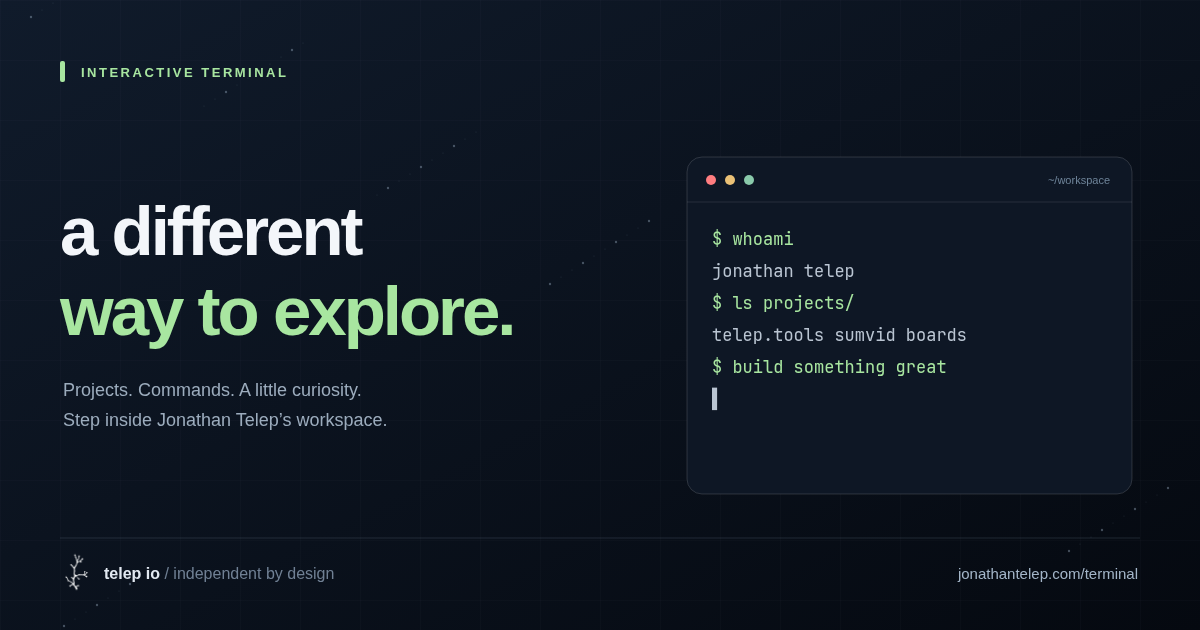
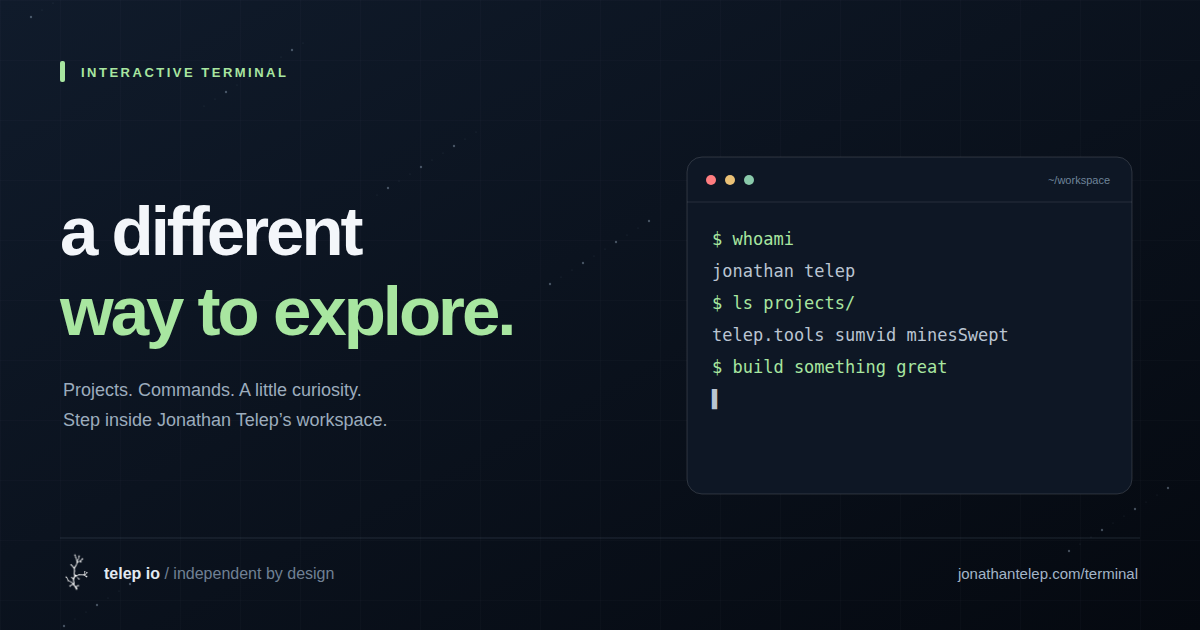
Replace Boards with minesSwept (#7)
* Replace the Boards project with live minesSwept.

Boards was the only coming-soon entry. minesSwept is now a featured project with its live site and source.

* Fix minesSwept spelling, link labels, and stamp.

Use minesSwept in the products copy, mines-swept on the plate, and minesswept.md in the terminal. Label the card links and mark the card shipped.

---------

diff --git a/index.html b/index.html
@@ -26,7 +26,7 @@
     <meta name="twitter:image" content="https://jonathantelep.com/public/social/home-v1.png">
     <meta name="twitter:image:alt" content="JONATHAN TELEP / SOFTWARE ENGINEER: the universe is possible.">
     <!-- social-preview:end -->
-    <meta name="keywords" content="Jonathan Telep, software engineer, Cleveland, Ohio, Telep IO, BarkMarks, sumvid, telep.tools, boards, web developer, API developer">
+    <meta name="keywords" content="Jonathan Telep, software engineer, Cleveland, Ohio, Telep IO, BarkMarks, sumvid, telep.tools, minesSwept, web developer, API developer">
     <meta name="author" content="Jonathan Telep">
     <link rel="describedby" href="https://jonathantelep.com/llms.txt" type="text/plain">
     <link rel="alternate" type="text/markdown" href="https://jonathantelep.com/about.md" title="Plain-text profile">
@@ -44,7 +44,7 @@
           "name": "Jonathan Telep",
           "alternateName": ["Jon Telep", "jon telep"],
           "jobTitle": "Senior Software Engineer",
-          "description": "Senior Software Engineer at Red Hat in Cleveland, Ohio. Founder of Telep IO, a solo side studio. Builds and ships independent products including BarkMarks, sumvid, telep.tools, boards, Easy Data Quality, seploy, omusey, and agent skills.",
+          "description": "Senior Software Engineer at Red Hat in Cleveland, Ohio. Founder of Telep IO, a solo side studio. Builds and ships independent products including minesSwept, BarkMarks, sumvid, telep.tools, Easy Data Quality, seploy, omusey, and agent skills.",
           "url": "https://jonathantelep.com",
           "image": "https://jonathantelep.com/public/jon.png",
           "worksFor": { "@id": "https://www.redhat.com/#organization" },
@@ -56,7 +56,8 @@
             "https://telep.io",
             "https://bark.telep.io",
             "https://sumvid.app",
-            "https://telep.tools"
+            "https://telep.tools",
+            "https://minesswept.com"
           ],
           "knowsAbout": [
             "Master Data Management",
@@ -67,7 +68,7 @@
             "API Development",
             "AI/ML",
             "Video Summarization",
-            "Image-to-Video Generation",
+            "Real-time Multiplayer",
             "Developer Tools",
             "PostgreSQL",
             "JSON",
@@ -125,7 +126,7 @@
     <link rel="preconnect" href="https://fonts.googleapis.com">
     <link rel="preconnect" href="https://fonts.gstatic.com" crossorigin>
     <link href="https://fonts.googleapis.com/css2?family=Kanit:wght@300;400;500;600;700&family=JetBrains+Mono:wght@400;500;700&display=swap" rel="stylesheet">
-    <link rel="stylesheet" href="landing.css?v=6">
+    <link rel="stylesheet" href="landing.css?v=7">
     <script src="https://cdn.jsdelivr.net/npm/marked/marked.min.js"></script>
 </head>
 <body>
@@ -264,7 +265,7 @@
                         <span></span><span></span><span></span><span></span><span></span><span></span>
                     </div>
                     <h3>products</h3>
-                    <p>small apps with one job. barkmarks tells you when the dog will bark at the movie. sumvid summarizes videos. boards turns generated images into generated video. telep.tools is where they'll all live.</p>
+                    <p>small apps with one job. minesSwept is one minesweeper board everyone digs together. barkmarks tells you when the dog will bark at the movie. sumvid summarizes videos. telep.tools is where they'll all live.</p>
                     <a href="#projects" class="more">see projects →</a>
                 </article>
                 <article class="build-card">
@@ -293,13 +294,30 @@
             <p class="sec-sub">newest first. green is live, amber is being built.</p>
 
             <div class="cards">
+                <article class="card">
+                    <div class="card-art art-mine" aria-hidden="true">
+                        <div class="grid">
+                            <i></i><i class="on"></i><i></i><i class="flag"></i><i></i><i></i>
+                            <i class="on"></i><i class="on"></i><i class="on"></i><i></i><i></i><i class="on"></i>
+                            <i></i><i class="on"></i><i class="mine"></i><i class="on"></i><i></i><i></i>
+                            <i></i><i></i><i class="on"></i><i class="on"></i><i></i><i class="flag"></i>
+                        </div>
+                        <span class="stamp shipped">shipped</span>
+                    </div>
+                    <p class="plate">plate 01 — mines-swept — 2026</p>
+                    <h3>minesSwept</h3>
+                    <p>One minesweeper board. A million cells. Everyone digs together, live. One mine ends it for everyone.</p>
+                    <div class="tags"><span>cloudflare workers</span><span>durable objects</span><span>websockets</span></div>
+                    <span class="open"><a href="https://minesswept.com" target="_blank" rel="noopener" aria-label="Play minesSwept">open ↗</a><a href="https://github.com/JonTelep/mines-swept" target="_blank" rel="noopener" aria-label="minesSwept source on GitHub">source ↗</a></span>
+                </article>
+
                 <a class="card" href="https://bark.telep.io" target="_blank" rel="noopener">
                     <div class="card-art art-bark" aria-hidden="true">
                         <div class="meter"><i></i><i></i><i></i><i></i><i></i></div>
                         <div class="track"><b></b><b></b><b></b><b></b></div>
                         <span class="stamp shipped">shipped</span>
                     </div>
-                    <p class="plate">plate 01 — barkmarks — 2026 — latest</p>
+                    <p class="plate">plate 02 — barkmarks — 2026 — latest</p>
                     <h3>barkmarks</h3>
                     <p>know when the dog will bark. search a movie or show, get a bark grade and timestamps for the doorbells, howls, and squeaky toys on screen — so you can mute before the dog ruins the night.</p>
                     <div class="tags"><span>movies</span><span>dogs</span><span>search</span></div>
@@ -312,7 +330,7 @@
                         <div class="lines"><i></i><i></i><i></i></div>
                         <span class="stamp shipped">shipped</span>
                     </div>
-                    <p class="plate">plate 02 — sumvid-app — 2026</p>
+                    <p class="plate">plate 03 — sumvid-app — 2026</p>
                     <h3>sumvid</h3>
                     <p>a summarization of videos. paste a link, get the point.</p>
                     <div class="tags"><span>ai</span><span>video</span><span>summarization</span></div>
@@ -324,24 +342,11 @@
                         <div class="tiles"><i></i><i></i><i></i><i></i><i></i><i></i><i></i><i></i><i></i><i></i><i></i><i></i></div>
                         <span class="stamp building">building</span>
                     </div>
-                    <p class="plate">plate 03 — telep-tools — 2026 — in progress</p>
+                    <p class="plate">plate 04 — telep-tools — 2026 — in progress</p>
                     <h3>telep.tools</h3>
                     <p>one home for every tool i make. nothing deployed yet. this is what i'm building toward right now.</p>
                     <div class="tags"><span>platform</span><span>tools</span><span>saas</span></div>
                     <span class="open">follow along ↗</span>
-                </a>
-
-                <a class="card" href="https://telep.io/contact" target="_blank" rel="noopener">
-                    <div class="card-art art-boards" aria-hidden="true">
-                        <div class="frames"><i></i><i></i><i></i><i></i></div>
-                        <div class="play"></div>
-                        <span class="stamp building">building</span>
-                    </div>
-                    <p class="plate">plate 04 — boards — 2026 — in progress</p>
-                    <h3>boards</h3>
-                    <p>image generation to video generation. lay out the frames on a board, then let it move.</p>
-                    <div class="tags"><span>ai</span><span>image</span><span>video</span></div>
-                    <span class="open">ask about it ↗</span>
                 </a>
 
                 <a class="card" href="https://easydataquality.com" target="_blank" rel="noopener">
@@ -433,6 +438,9 @@
             <div class="sys-groups">
                 <div class="sys-group">
                     <div class="sys-head"><span>products</span><span id="cnt-products">00</span></div>
+                    <a class="sys" href="https://minesswept.com" target="_blank" rel="noopener" data-group="products">
+                        <span class="sys-led"></span><span class="sys-name">minesSwept</span><span class="sys-url">minesswept.com</span><span class="sys-desc">one minesweeper board. a million cells. everyone digs together.</span>
+                    </a>
                     <a class="sys" href="https://bark.telep.io" target="_blank" rel="noopener" data-group="products">
                         <span class="sys-led"></span><span class="sys-name">barkmarks</span><span class="sys-url">bark.telep.io</span><span class="sys-desc">bark grades + timestamps for movies and tv. latest live app.</span>
                     </a>
@@ -441,9 +449,6 @@
                     </a>
                     <a class="sys" href="https://telep.tools" target="_blank" rel="noopener" data-group="products" data-state="building">
                         <span class="sys-led"></span><span class="sys-name">telep.tools</span><span class="sys-url">telep.tools</span><span class="sys-desc">home for all the tools. building.</span>
-                    </a>
-                    <a class="sys" href="https://telep.io/contact" target="_blank" rel="noopener" data-group="products" data-state="building">
-                        <span class="sys-led"></span><span class="sys-name">boards</span><span class="sys-url">soon</span><span class="sys-desc">image generation → video generation. building.</span>
                     </a>
                     <a class="sys" href="https://easydataquality.com" target="_blank" rel="noopener" data-group="products">
                         <span class="sys-led"></span><span class="sys-name">easy data quality</span><span class="sys-url">easydataquality.com</span><span class="sys-desc">data quality checks made easy</span>

diff --git a/js/modules/filesystem.js b/js/modules/filesystem.js
@@ -12,7 +12,7 @@ export const filesystem = {
 
 I am a software engineer in Cleveland, Ohio who likes to build things that I needed or always wanted, and I created this site to share my projects and thoughts. Much of my random personal projects will be public on [github](https://github.com/JonTelep).
 
-Slowly but surely I am building [Telep IO LLC](https://telep.io/), a software company building SaaS solutions for a better future. The latest live app is [sumvid](https://sumvid.app), a summarization of videos. Right now I am building toward [telep.tools](https://telep.tools), one home for every tool I make, and **boards**, an image generation to video generation tool. Follow me on [Twitter/X](https://x.com/telep_io) to keep informed.
+Slowly but surely I am building [Telep IO LLC](https://telep.io/), a software company building SaaS solutions for a better future. The latest live app is [sumvid](https://sumvid.app), a summarization of videos. [minesSwept](https://minesswept.com) is one minesweeper board everyone digs together, live ([source](https://github.com/JonTelep/mines-swept)). Right now I am building toward [telep.tools](https://telep.tools), one home for every tool I make. Follow me on [Twitter/X](https://x.com/telep_io) to keep informed.
 
 If you are looking to work together on any project that is exciting, reach me at [/request](https://jonathantelep.com/request), [telep.io/contact](https://telep.io/contact), or via a DM on [X](https://x.com/telep_io). I am always looking to get involved in interesting projects.
 
@@ -22,6 +22,7 @@ If you are looking to work together on any project that is exciting, reach me at
 - [Github](https://github.com/JonTelep) 
 
 ## Current Projects:
+- [minesSwept](https://minesswept.com) ([source](https://github.com/JonTelep/mines-swept)); One minesweeper board. A million cells. Everyone digs together, live. One mine ends it for everyone.
 - The website you are reading this on ([jonathantelep.com](https://jonathantelep.com))
 - [Visualize Postgres](/postgres/); A PostgreSQL CREATE SQL to ER Diagram web application.
 - [JSONIFY](/jsonify/); A JSON parser that can parse JSON files and return the data in a readable format.
@@ -31,6 +32,21 @@ If you are looking to work together on any project that is exciting, reach me at
             'projects': {
                 type: 'directory',
                 contents: {
+                    'minesswept.md': {
+                        type: 'file',
+                        url: 'https://minesswept.com',
+                        github: 'https://github.com/JonTelep/mines-swept',
+                        content: `# minesSwept
+
+One minesweeper board. A million cells. Everyone digs together, live. One mine ends it for everyone.
+
+Built with Cloudflare Workers and Durable Objects, with real-time multiplayer over WebSockets.
+
+## Links
+
+- Live: [minesswept.com](https://minesswept.com)
+- Source: [github.com/JonTelep/mines-swept](https://github.com/JonTelep/mines-swept)`
+                    },
                     'visualize-postgres.md': {
                         type: 'file',
                         url: '/postgres/',

diff --git a/landing.css b/landing.css
@@ -384,6 +384,8 @@ body::before {
 .tags { display: flex; flex-wrap: wrap; gap: 6px; margin-top: 14px; font-size: 10.5px; }
 .tags span { padding: 3px 8px; border-radius: 4px; background: rgba(199, 211, 220, 0.06); color: var(--dim); }
 .open { margin-top: 14px; font-size: 12px; color: var(--cyan); text-decoration: underline; text-underline-offset: 3px; }
+.open a { color: inherit; text-decoration: underline; text-underline-offset: 3px; margin-right: 16px; }
+.open:has(a) { text-decoration: none; }
 
 /* card art animations */
 .art-sumvid .film { position: absolute; left: 0; right: 0; top: 24px; display: flex; gap: 8px; padding: 0 12px; animation: slide 6s linear infinite; width: 200%; }
@@ -400,11 +402,11 @@ body::before {
 .art-tools .tiles i:nth-child(3n) { animation-delay: 0.6s; } .art-tools .tiles i:nth-child(3n+1) { animation-delay: 1.4s; } .art-tools .tiles i:nth-child(5n) { animation-delay: 2.2s; }
 @keyframes fill { 45%, 55% { background: var(--amber); border-style: solid; opacity: 1; } }
 
-.art-boards .frames { display: grid; grid-template-columns: repeat(4, 34px); gap: 8px; }
-.art-boards .frames i { width: 34px; height: 46px; border-radius: 4px; background: linear-gradient(160deg, #3a2a4a, #6a3f5a); border: 1px solid rgba(255,179,71,0.4); animation: frame 4s var(--ease) infinite; }
-.art-boards .frames i:nth-child(2) { animation-delay: 0.25s; } .art-boards .frames i:nth-child(3) { animation-delay: 0.5s; } .art-boards .frames i:nth-child(4) { animation-delay: 0.75s; }
-@keyframes frame { 0% { opacity: 0; transform: translateY(8px); } 20%, 60% { opacity: 1; transform: none; } 70%, 100% { opacity: 0.2; transform: translateX(-12px); } }
-.art-boards .play { position: absolute; right: 22px; bottom: 16px; width: 0; height: 0; border-left: 14px solid var(--amber); border-top: 9px solid transparent; border-bottom: 9px solid transparent; animation: blink 1.6s ease-in-out infinite; }
+.art-mine .grid { display: grid; grid-template-columns: repeat(6, 18px); gap: 5px; }
+.art-mine .grid i { width: 18px; height: 18px; border-radius: 2px; background: #1c2633; border: 1px solid rgba(90,209,255,0.28); }
+.art-mine .grid i.on { background: rgba(53,208,127,0.18); border-color: rgba(53,208,127,0.7); }
+.art-mine .grid i.flag { background: var(--amber); border-color: var(--amber); }
+.art-mine .grid i.mine { background: var(--red); border-color: var(--red); box-shadow: 0 0 10px rgba(255,95,87,0.65); }
 
 /* barkmarks: a bark meter (quiet → full bark) over a timeline of trigger marks */
 .art-bark { display: flex; align-items: flex-end; justify-content: center; }

diff --git a/script.js b/script.js
@@ -39,7 +39,7 @@ You will find some of my projects are silly and just were built from an idea tha
 
 ## Current Projects:
 - The website you are reading this on; A website to share my projects and thoughts.
-- MinesSwept; A social experiment created on a single page app of a giant minesweeper game where everyone works together to solve the minesweeper board.
+- minesSwept; One minesweeper board. A million cells. Everyone digs together, live. https://minesswept.com
 ## Future Projects:
 - LetsTalkStatistics; My personal collection of statistics I've found interesting. Around Finance, Economics, Politics
 
@@ -59,19 +59,20 @@ You will find some of my projects are silly and just were built from an idea tha
                 contents: {
                     'letstalkstatistics.md': { 
                         type: 'file',
-                        content: `# Let's Talk Statistics (To be shipped Q2 2025)
+                        content: `# Let's Talk Statistics
 
-A collection of statistics I've found interesting. Around Crypto,Finance, Economics, Politics`
+A collection of statistics I've found interesting. Around Crypto,Finance, Economics, Politics. Live at https://letstalkstatistics.com`
                     },
-                    'mineswept.md': {
+                    'minesswept.md': {
                         type: 'file',
-                        content: `# Mineswept (To be shipped soon)
+                        content: `# minesSwept
 
-Mineswept is a social experiment created on a single page app of a giant minesweeper game where everyone works together to solve the minesweeper board.
+One minesweeper board. A million cells. Everyone digs together, live. One mine ends it for everyone.
 
-## How to play`
+Built with Cloudflare Workers and Durable Objects, with real-time multiplayer over WebSockets.
 
-
+Live: https://minesswept.com
+Source: https://github.com/JonTelep/mines-swept`
                     }
                 }
             }

diff --git a/js/modules/terminal.js b/js/modules/terminal.js
@@ -171,9 +171,9 @@ export function handleCommand(command) {
 }
 
 const PROJECTS = [
+    { url: 'https://minesswept.com', description: 'minesSwept — one board, everyone digs', category: 'products' },
     { url: 'https://sumvid.app', description: 'sumvid — video summarization (latest)', category: 'products' },
     { url: 'https://telep.tools', description: 'telep.tools — building', category: 'products' },
-    { url: 'https://telep.io/contact', description: 'boards — image → video gen (building)', category: 'products' },
     { url: 'https://easydataquality.com', description: 'easy data quality — data quality checks made easy', category: 'products' },
     { url: 'https://www.telep.io', description: "My company's site", category: 'work' },
     { url: 'https://www.jonathantelep.com', description: 'Personal site (v1)', category: 'info' },

diff --git a/resume.md b/resume.md
@@ -65,7 +65,7 @@ What he can sell: stand up a site, host it, and manage IT for another business o
 
 ### Products and tools
 
-- **Boards** — in progress. AI storyboard → stills → client review; video is the north star. [telep.io/contact](https://telep.io/contact)
+- **minesSwept** — live. One minesweeper board. A million cells. Everyone digs together, live. One mine ends it for everyone. Cloudflare Workers, Durable Objects, and WebSockets. [minesswept.com](https://minesswept.com) · [source](https://github.com/JonTelep/mines-swept)
 - **BarkMarks** — live. Know when the dog will bark: bark grades and timestamps for movies and TV. [bark.telep.io](https://bark.telep.io)
 - **sumvid** — live. YouTube / video summarizer: paste a link, get the point. [sumvid.app](https://sumvid.app)
 - **telep.tools** — in progress. Shipyard / launcher for every tool. [telep.tools](https://telep.tools)
@@ -82,7 +82,7 @@ What he can sell: stand up a site, host it, and manage IT for another business o
 - BarkMarks: shipped public movie/TV bark-trigger search
 - sumvid: shipped public video summarization product
 - seploy + telep.tools: deploy utility and the floor meant to hold the rest of the tools
-- Boards: storyboard-to-stills product in flight; video generation is the target
+- minesSwept: shared live minesweeper on Cloudflare Workers and Durable Objects
 - Sites for others: IT for Alpha11 Veterans; hosts Telep Remodeling
 
 No revenue or traffic figures published beyond Alpha11 helping thousands of local veterans. Do not invent retainers or other metrics.

diff --git a/about.md b/about.md
@@ -22,17 +22,17 @@ Cleveland, Ohio, United States.
 
 ## What I build
 
-- Products: small apps with one job (BarkMarks, sumvid, boards, telep.tools, Easy Data Quality)
+- Products: small apps with one job (minesSwept, BarkMarks, sumvid, telep.tools, Easy Data Quality)
 - Developer tools: paste something in, get something useful out (Visualize Postgres, Jsonify)
 - Live data: weather, mortgage rates, and launches, printed in a terminal
 - Sites for others: bring a business or nonprofit onto the internet and manage it ([Alpha11 Veterans](https://alpha11veterans.org), [Telep Remodeling](https://telepremodeling.com))
 
 ## Projects
 
+- [minesSwept](https://minesswept.com) — one minesweeper board, a million cells, everyone digs together ([source](https://github.com/JonTelep/mines-swept))
 - [BarkMarks](https://bark.telep.io) — know when the dog will bark: bark grades and timestamps for movies and TV (live)
 - [sumvid](https://sumvid.app) — video summarization (live)
 - [telep.tools](https://telep.tools) — home for the tools (in progress)
-- [boards](https://telep.io/contact) — image generation to video generation (in progress)
 - [Easy Data Quality](https://easydataquality.com) — data quality checks (live)
 - [seploy](https://github.com/Telep-IO/seploy) — deploy utility (live)
 - [skills](https://github.com/JonTelep/skills) — agent skills (live)
